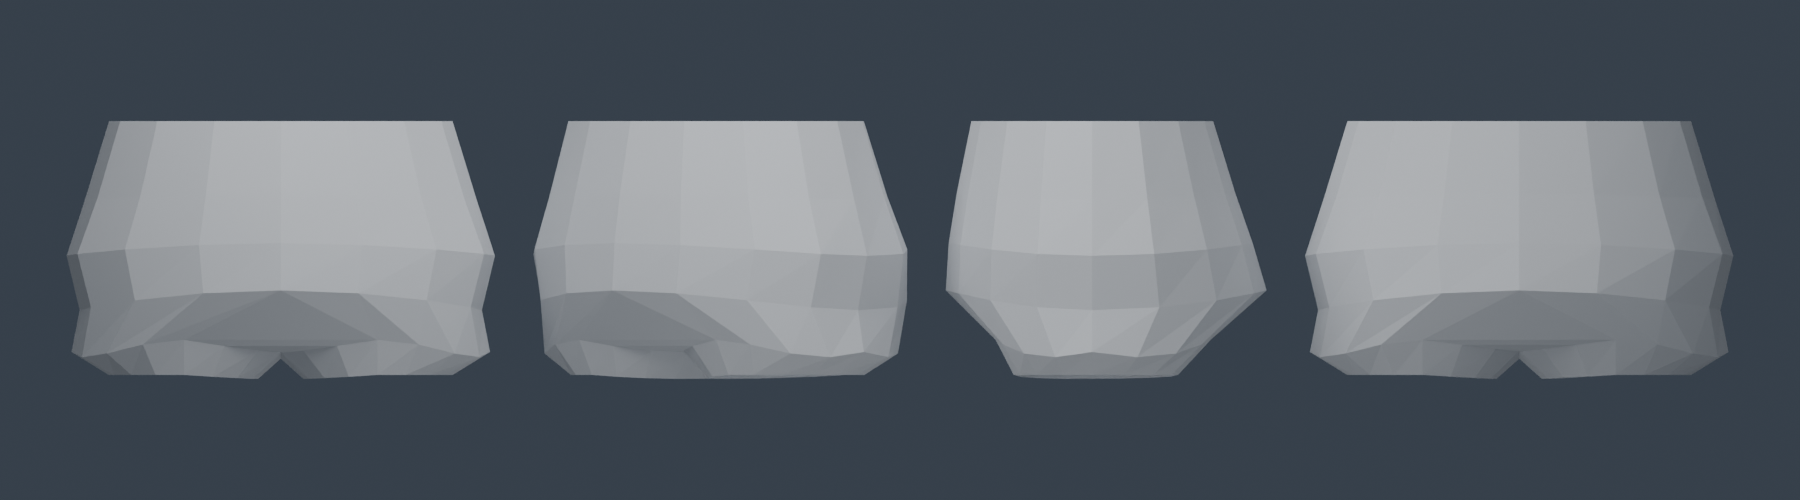
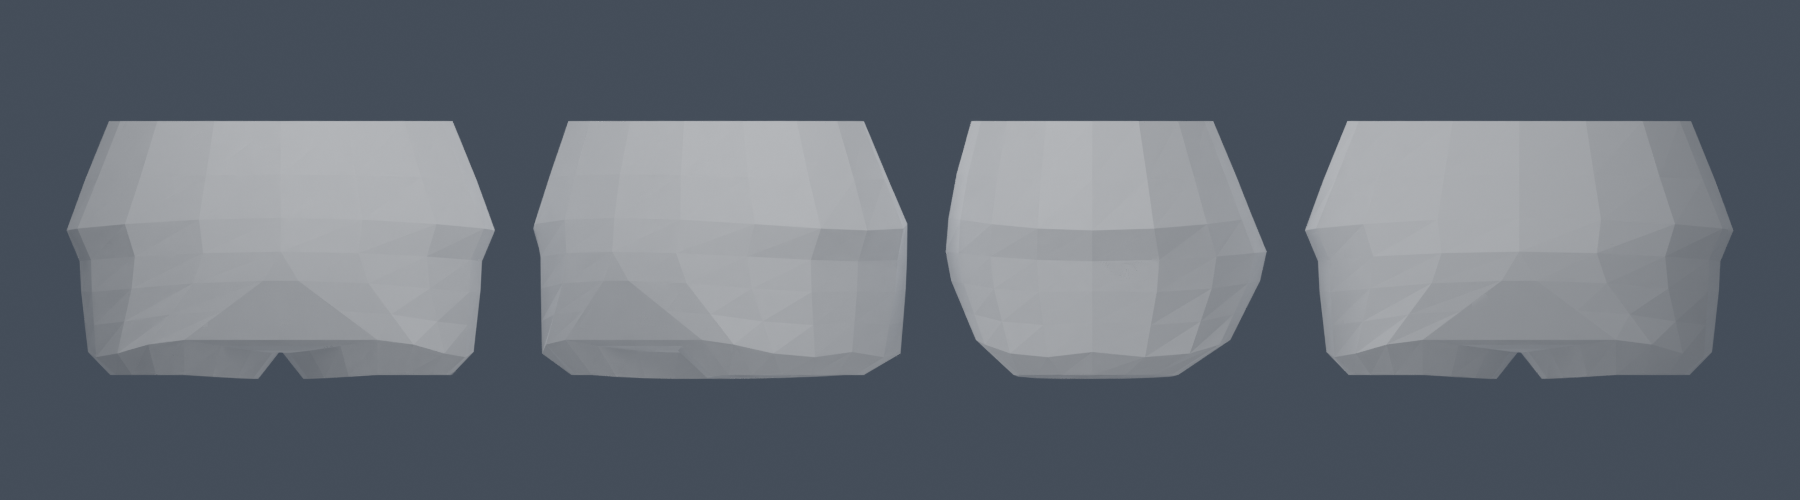
Refine lower pelvis transition and refresh visual review

diff --git a/object_core/geometry/neutral_pelvis.py b/object_core/geometry/neutral_pelvis.py
@@ -131,22 +131,22 @@ def generate_neutral_pelvis(shape=None):
         front_softness=.020, quarter_fullness=.008,
     )
     iliac = _ring(
-        p.height * .20, p.width * .925, p.depth * .935,
+        p.height * .28, p.width * .925, p.depth * .935,
         rear_projection=p.depth * .026 * p.glute_projection,
         lateral_fullness=.030 * p.hip_fullness, front_softness=.034,
         lower_side_drop=p.height * .024, quarter_fullness=.012 * p.hip_fullness,
     )
     body = _ring(
-        -p.height * .005, p.width * .985, p.depth * .990,
+        p.height * .10, p.width * .985, p.depth * .990,
         rear_projection=p.depth * .058 * p.glute_projection,
         lateral_fullness=.058 * p.hip_fullness, front_softness=.044,
         lower_side_drop=p.height * .052, quarter_fullness=.024 * p.hip_fullness,
     )
     hip = _ring(
-        -p.height * .20, p.width * .955, p.depth * 1.010,
+        -p.height * .04, p.width * .955, p.depth * 1.010,
         rear_projection=p.depth * .096 * p.glute_projection,
         lateral_fullness=.025 * p.hip_fullness, front_softness=.052,
-        lower_side_drop=p.height * .082, quarter_fullness=.017 * p.hip_fullness,
+        lower_side_drop=p.height * .040, quarter_fullness=.017 * p.hip_fullness,
     )
 
     upper_loop = _append_loop(vertices, upper)
@@ -159,14 +159,14 @@ def generate_neutral_pelvis(shape=None):
 
     center_offset = p.thigh_spacing * .5 + p.thigh_opening_width * .5
     transition_z = -p.height * .405
-    transition_width = min(p.width * .505, p.thigh_opening_width * 1.36)
-    transition_depth = min(p.depth * .775, p.thigh_opening_depth * 1.23)
+    transition_width = min(p.width * .46, p.thigh_opening_width * 1.24)
+    transition_depth = min(p.depth * .86, p.thigh_opening_depth * 1.48)
     medial_drop = p.height * .080 * p.crotch_drop
     outer_lift = 0.0
     outer_drop = p.height * .050
     quarter_drop = p.height * .022
     rear_projection = p.depth * .075 * p.glute_projection
-    outer_flare = p.width * .034 * p.hip_fullness
+    outer_flare = p.width * .015 * p.hip_fullness
     medial_fill = min(p.crotch_width * .082, p.thigh_spacing * .15)
 
     # Curve the socket loop rather than keeping it nearly horizontal: the outer
@@ -190,14 +190,34 @@ def generate_neutral_pelvis(shape=None):
     left_outer_path = tuple(left_transition[i % SIDES] for i in range(12, 21))
     right_hip_path = tuple(hip_loop[i] for i in range(4, 13))
     right_outer_path = tuple(right_transition[i] for i in range(4, 13))
-    _bridge_paths(faces, left_hip_path, left_outer_path)
-    _bridge_paths(faces, right_hip_path, right_outer_path)
+    # Cubic longitudinal profiles turn gradually beneath the hip instead of
+    # collapsing the entire lower third across a single sloping polygon band.
+    columns = []
+    for source, target in ((left_hip_path, left_outer_path),
+                           (right_hip_path, right_outer_path)):
+        previous = source
+        rows = [source]
+        for t in (.33, .67):
+            radial = t * t * (2.0 - t)
+            row = []
+            for a, b in zip(source, target):
+                x, y, z = vertices[a]
+                tx, ty, tz = vertices[b]
+                row.append(len(vertices))
+                vertices.append((x + radial * (tx - x),
+                                 y + radial * (ty - y), z + t * (tz - z)))
+            _bridge_paths(faces, previous, row)
+            previous = row
+            rows.append(row)
+        _bridge_paths(faces, previous, target)
+        rows.append(target)
+        columns.append(rows)
 
     left_medial_path = tuple(left_transition[i] for i in range(4, 13))
     right_medial_path = tuple(right_transition[i % SIDES] for i in (4, 3, 2, 1, 0, 15, 14, 13, 12))
 
     rail_half_width = min(p.crotch_width * .18, p.thigh_spacing * .22,
-                          max(0.01, center_offset - transition_width * .5) * .5)
+                          max(0.01, center_offset - transition_width * .5 - medial_fill) * .5)
     left_rail_points = []
     right_rail_points = []
     for left_index, right_index in zip(left_medial_path, right_medial_path):
@@ -216,12 +236,33 @@ def generate_neutral_pelvis(shape=None):
     _bridge_paths(saddle_faces, right_rail, right_medial_path)
     faces.extend(tuple(reversed(face)) for face in saddle_faces)
 
-    for end, hip_index in ((0, 4), (-1, 12)):
-        seam = (left_medial_path[end], left_rail[end],
-                right_rail[end], right_medial_path[end])
-        for a, b in zip(seam, seam[1:]):
-            face = (hip_loop[hip_index], a, b)
-            faces.append(tuple(reversed(face)) if end == 0 else face)
+    # Continue the new front/rear rows into the existing narrow crotch rails.
+    # Matching the rail columns avoids a large centerline fan or extra holes.
+    left_rows, right_rows = columns
+    for end, li, ri in ((0, -1, 0), (-1, 0, -1)):
+        bottom = (left_medial_path[end], left_rail[end],
+                  right_rail[end], right_medial_path[end])
+        half_width = vertices[bottom[0]][0]
+        fractions = tuple((half_width - vertices[i][0]) / (2 * half_width)
+                          for i in bottom)
+        patch_rows = []
+        for left_row, right_row in zip(left_rows[1:-1], right_rows[1:-1]):
+            a, b = left_row[li], right_row[ri]
+            row = [a]
+            for fraction in fractions[1:-1]:
+                row.append(len(vertices))
+                vertices.append(tuple(x + fraction * (y - x)
+                                      for x, y in zip(vertices[a], vertices[b])))
+            row.append(b)
+            patch_rows.append(row)
+        patch_rows.append(bottom)
+        patch = [(left_rows[0][li], b, a)
+                 for a, b in zip(patch_rows[0], patch_rows[0][1:])]
+        for upper_row, lower_row in zip(patch_rows, patch_rows[1:]):
+            for j in range(3):
+                patch.append((upper_row[j], upper_row[j+1],
+                              lower_row[j+1], lower_row[j]))
+        faces.extend(patch if end == 0 else [tuple(reversed(f)) for f in patch])
 
     leg_z = -p.height * .55 * p.crotch_drop
     left_thigh = _append_loop(vertices, _leg_loop(

diff --git a/scripts/render_pelvis_review.py b/scripts/render_pelvis_review.py
@@ -47,7 +47,7 @@ def main():
    spline=curve.splines.new("POLY"); spline.points.add(1)
    for point,index in zip(spline.points,edge.vertices): point.co=(*obj.data.vertices[index].co,1.0)
   overlay=bpy.data.objects.new(obj.name+" edges",curve); bpy.context.collection.objects.link(overlay); overlay.location=obj.location; overlay.rotation_euler=obj.rotation_euler; curve.materials.append(edge_material); overlay.hide_render=True; edge_objects.append(overlay)
- scene=bpy.context.scene; scene.render.engine="CYCLES"; scene.cycles.device="CPU"; scene.cycles.samples=32; scene.cycles.use_denoising=True; scene.render.resolution_x=1800; scene.render.resolution_y=500; scene.render.resolution_percentage=100; scene.render.image_settings.file_format="PNG"; scene.view_settings.look="AgX - Medium High Contrast"; scene.view_settings.exposure=.35
+ scene=bpy.context.scene; scene.render.engine="CYCLES"; scene.cycles.device="CPU"; scene.cycles.samples=32; scene.cycles.use_denoising=True; scene.render.resolution_x=1800; scene.render.resolution_y=500; scene.render.resolution_percentage=100; scene.render.image_settings.file_format="PNG"; scene.view_settings.look=("AgX - Medium High Contrast" if "AgX - Medium High Contrast" in scene.view_settings.bl_rna.properties["look"].enum_items.keys() else "Medium High Contrast"); scene.view_settings.exposure=.35
  world=scene.world or bpy.data.worlds.new("Pelvis World"); scene.world=world; world.use_nodes=True; bg=world.node_tree.nodes.get("Background"); bg.inputs["Color"].default_value=(.42,.45,.49,1); bg.inputs["Strength"].default_value=.25
  # Separate the camera backdrop from ambient illumination so pale clay stays
  # legible without flattening the surface with an equally bright environment.
@@ -76,6 +76,7 @@ def main():
   ld=bpy.data.lights.new(name,"AREA"); ld.energy=energy*8; ld.size=size; ob=bpy.data.objects.new(name,ld); bpy.context.collection.objects.link(ob); ob.location=loc; look(ob,target)
  out=Path(a.output); out=out if out.is_absolute() else REPO_ROOT/out; out.parent.mkdir(parents=True,exist_ok=True)
  for mode in a.modes:
+  scene.cycles.use_denoising=mode=="clay"
   for overlay in edge_objects: overlay.hide_render=mode!="wireframe"
   config(material,mode); target=out if mode=="clay" else out.with_name(out.stem+"_"+mode+out.suffix); scene.render.filepath=os.fspath(target); bpy.ops.render.render(write_still=True); print("Pelvis review",mode,"written to",target)
 if __name__=="__main__": main()

diff --git a/tests/core/geometry/test_neutral_pelvis.py b/tests/core/geometry/test_neutral_pelvis.py
@@ -78,6 +78,18 @@ class NeutralPelvisTests(unittest.TestCase):
             for normal in normals:
                 self.assertGreater(sum(x*y for x, y in zip(normal, average)), 1e-8, face)
 
+    def test_lower_hip_turn_is_distributed_over_multiple_surface_rows(self):
+        vertices, _, _ = generate_neutral_pelvis()
+        # Follow the lateral silhouette down from its widest point. Each step
+        # must descend more than it moves inward, avoiding a horizontal shelf.
+        lateral = sorted((v for v in vertices if abs(v[1]) < 1e-6 and v[0] > 13),
+                         key=lambda v: -v[2])
+        widest = max(range(len(lateral)), key=lambda i: lateral[i][0])
+        lower = lateral[widest:]
+        self.assertGreaterEqual(len(lower), 4)
+        for a, b in zip(lower, lower[1:]):
+            self.assertGreater(a[2] - b[2], abs(a[0] - b[0]))
+
     def test_semantic_controls_cover_modify_facing_shape_dimensions(self):
         controls = set(semantic_controls())
         self.assertTrue({"width", "depth", "hip_fullness", "glute_projection", "crotch_width", "crotch_drop", "thigh_spacing"} <= controls)

diff --git a/object_core/context.md b/object_core/context.md
@@ -72,3 +72,7 @@ Do not reopen broad architecture cleanup during Human V2 unless a concrete featu
 Fast checks:
 - `python -m unittest discover -s tests/core -v`
 - boundary tests in `tests/core/test_architecture_boundaries.py` and `tests/core/test_provider_boundaries.py`
+
+### Lower-pelvis transition review
+
+The standalone prototype now distributes the lower-hip turn across cubic longitudinal rows, carries those rows into the existing crotch rails, and preserves three 16-vertex attachment boundaries. `tests/core/geometry/test_neutral_pelvis.py` guards the lateral taper, face folding, winding, and declared boundaries.
